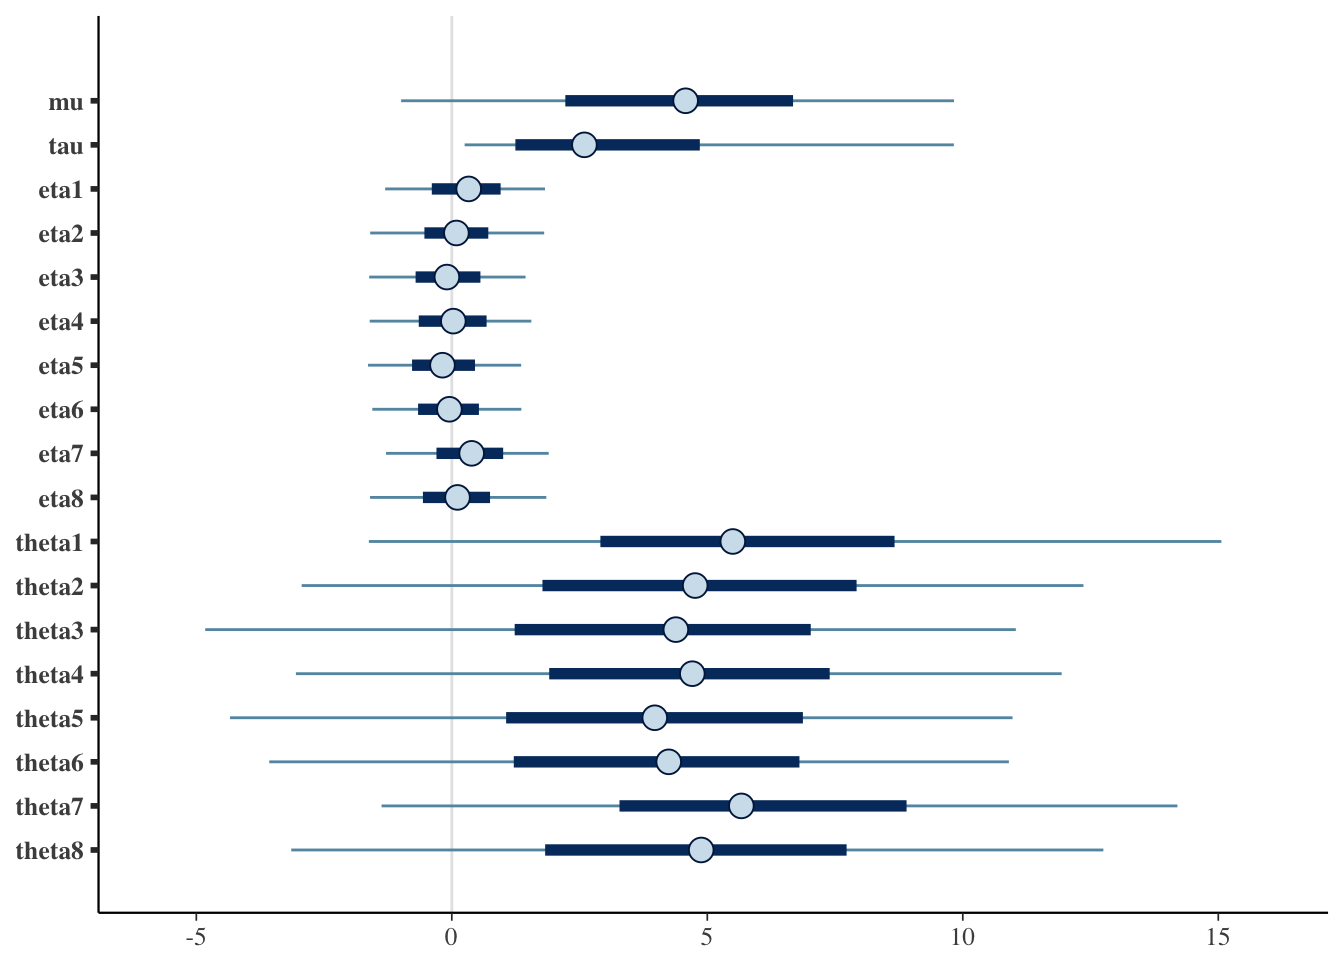
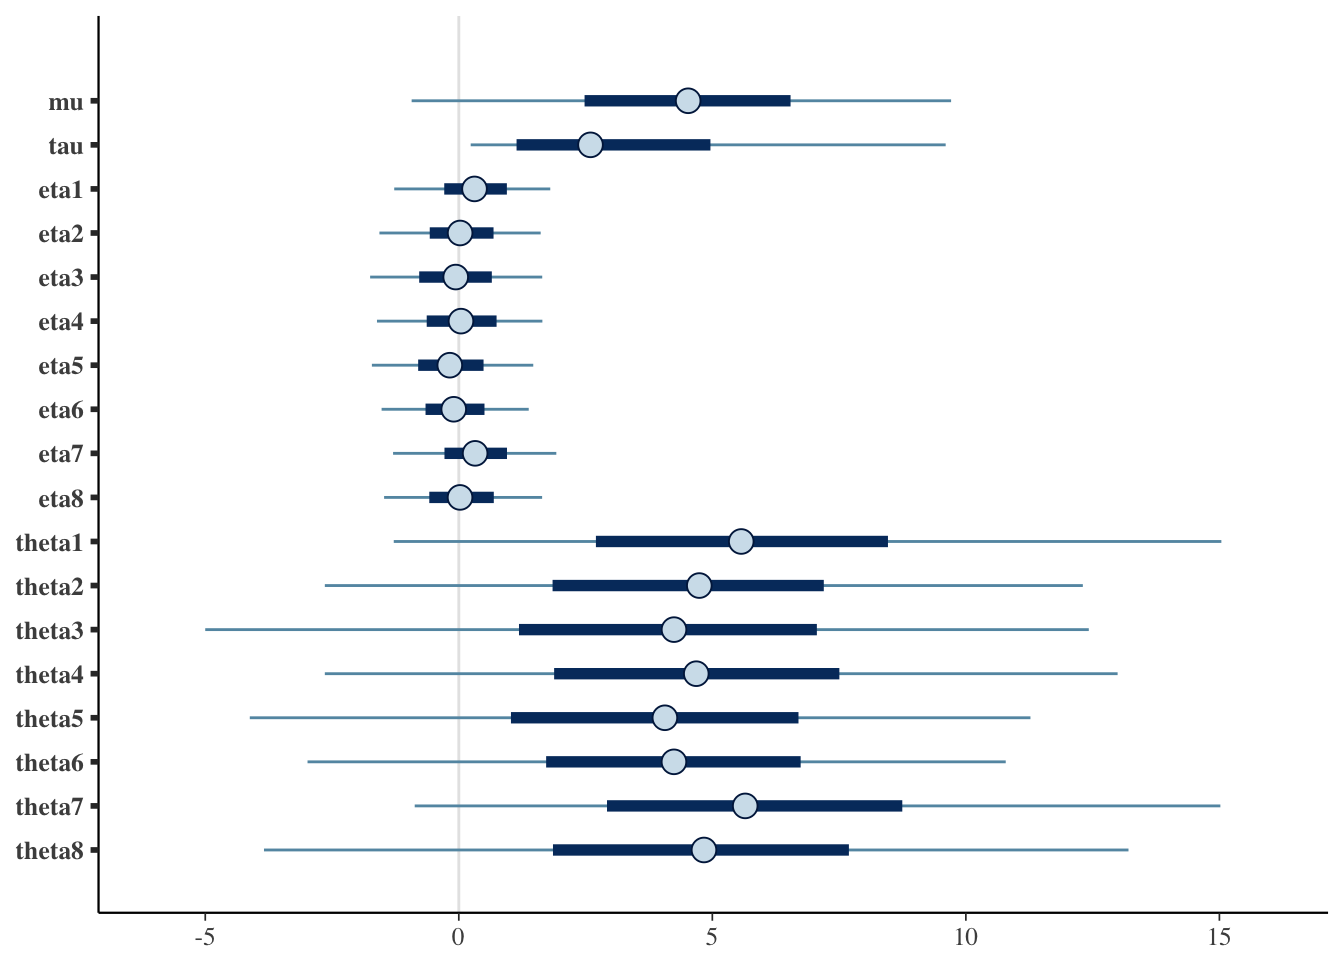
updates

diff --git a/content/post/2018-05-02-eight-schools-excercise-with-greta.html b/content/post/2018-05-02-eight-schools-excercise-with-greta.html
@@ -53,6 +53,7 @@ sigma &lt;- as_data(sigma)</code></pre>
 <div id="model" class="section level2">
 <h2>Model</h2>
 <p><a href="http://www.stat.columbia.edu/~gelman/research/published/tau9.pdf"><strong>This is two-level normal model</strong></a> of data <code>y_ij</code> with group-level effects <code>alpha_j</code> .</p>
+<p><code>$y_ij$</code></p>
 <p><code>y_ij ~ N(mu + alpha_j, sigma_y)</code> <em>i=1,…,n_j</em>, <em>j=1,…,J</em></p>
 <p><code>alpha_j ~ N(0, sigma_alpha)</code> <em>j=1,…,J</em></p>
 <p>We are going to use more efficient <a href="https://github.com/stan-dev/rstan/wiki/RStan-Getting-Started">parametrisation</a>, where alpha_j is represented as product of two new parameters <code>tau</code> and <code>eta</code>:</p>
@@ -105,46 +106,46 @@ render_graph(gr)</code></pre>
 ##    plus standard error of the mean:
 ## 
 ##            Mean     SD Naive SE Time-series SE
-## mu      4.47420 3.2661  0.10328        0.04859
-## tau     3.47276 3.1053  0.09820        0.09360
-## eta1    0.29450 0.9626  0.03044        0.01704
-## eta2    0.08463 1.0094  0.03192        0.01199
-## eta3   -0.08251 0.9549  0.03020        0.01668
-## eta4    0.01239 0.9660  0.03055        0.01984
-## eta5   -0.16248 0.9043  0.02860        0.01275
-## eta6   -0.06525 0.9095  0.02876        0.01364
-## eta7    0.34821 0.9580  0.03029        0.01618
-## eta8    0.07970 1.0334  0.03268        0.02130
-## theta1  6.05175 5.2985  0.16755        0.12792
-## theta2  4.79677 4.7058  0.14881        0.12365
-## theta3  3.94441 5.1332  0.16233        0.12279
-## theta4  4.55790 4.8127  0.15219        0.10452
-## theta5  3.81869 4.5751  0.14468        0.10857
-## theta6  4.00155 4.6655  0.14754        0.10644
-## theta7  6.18785 4.8630  0.15378        0.11376
-## theta8  4.76635 5.2481  0.16596        0.13809
+## mu      4.46612 3.1793  0.10054        0.05746
+## tau     3.49254 3.2515  0.10282        0.09477
+## eta1    0.29327 0.9225  0.02917        0.01362
+## eta2    0.03711 0.9502  0.03005        0.03838
+## eta3   -0.05267 1.0404  0.03290        0.02977
+## eta4    0.05379 1.0008  0.03165        0.02567
+## eta5   -0.16384 0.9760  0.03086        0.03482
+## eta6   -0.06491 0.8992  0.02844        0.02331
+## eta7    0.31736 0.9702  0.03068        0.01607
+## eta8    0.06382 0.9637  0.03048        0.01275
+## theta1  6.03477 5.6160  0.17759        0.16285
+## theta2  4.67581 4.6382  0.14667        0.11824
+## theta3  3.93124 5.5726  0.17622        0.16600
+## theta4  4.66895 4.9144  0.15541        0.14651
+## theta5  3.77913 4.7880  0.15141        0.12214
+## theta6  4.09232 4.5189  0.14290        0.11857
+## theta7  6.21985 4.9566  0.15674        0.11185
+## theta8  4.82537 5.3555  0.16936        0.11533
 ## 
 ## 2. Quantiles for each variable:
 ## 
 ##           2.5%     25%      50%    75%  97.5%
-## mu     -1.6846  2.2215  4.57568 6.6785 10.788
-## tau     0.1126  1.2442  2.59517 4.8535 11.514
-## eta1   -1.5859 -0.3917  0.33092 0.9553  2.128
-## eta2   -1.9115 -0.5361  0.08974 0.7141  2.058
-## eta3   -2.0023 -0.7085 -0.09644 0.5600  1.770
-## eta4   -1.9129 -0.6468  0.02978 0.6808  1.940
-## eta5   -1.8440 -0.7780 -0.18244 0.4539  1.581
-## eta6   -1.8994 -0.6600 -0.04703 0.5306  1.703
-## eta7   -1.5515 -0.3001  0.38844 1.0052  2.111
-## eta8   -1.9277 -0.5656  0.11132 0.7481  2.103
-## theta1 -3.1677  2.9078  5.49951 8.6649 17.841
-## theta2 -4.6101  1.7741  4.76276 7.9217 13.987
-## theta3 -7.1432  1.2304  4.38475 7.0244 13.607
-## theta4 -5.2650  1.9062  4.70690 7.3952 13.870
-## theta5 -5.9323  1.0631  3.97204 6.8710 12.277
-## theta6 -5.3784  1.2129  4.24518 6.8031 13.163
-## theta7 -2.6653  3.2818  5.66672 8.8996 16.385
-## theta8 -5.2752  1.8268  4.88107 7.7261 15.088</code></pre>
+## mu     -1.8755  2.4803  4.52315 6.5427 10.784
+## tau     0.1339  1.1390  2.59738 4.9626 11.807
+## eta1   -1.5804 -0.2871  0.30973 0.9482  2.065
+## eta2   -1.7890 -0.5729  0.02578 0.6851  1.864
+## eta3   -1.9532 -0.7809 -0.06082 0.6513  1.921
+## eta4   -1.9713 -0.6328  0.04319 0.7451  2.002
+## eta5   -2.1049 -0.8014 -0.17743 0.4881  1.769
+## eta6   -1.8155 -0.6560 -0.09978 0.5066  1.776
+## eta7   -1.6015 -0.2824  0.32195 0.9503  2.225
+## eta8   -1.7840 -0.5819  0.02457 0.6901  2.148
+## theta1 -3.2762  2.7040  5.57025 8.4635 18.339
+## theta2 -4.4679  1.8493  4.74291 7.1982 14.429
+## theta3 -8.6018  1.1870  4.24405 7.0615 14.475
+## theta4 -4.6000  1.8802  4.68312 7.5050 15.191
+## theta5 -6.6463  1.0285  4.06419 6.6990 12.733
+## theta6 -5.4450  1.7225  4.24301 6.7419 12.647
+## theta7 -1.8856  2.9229  5.64820 8.7462 17.829
+## theta8 -5.3336  1.8573  4.83502 7.6932 15.703</code></pre>
 <p>MCMC chain and the parameter estimates can be plotted using <code>bayesplot</code> package:</p>
 <pre class="r"><code>library(bayesplot)</code></pre>
 <pre><code>## This is bayesplot version 1.4.0</code></pre>
